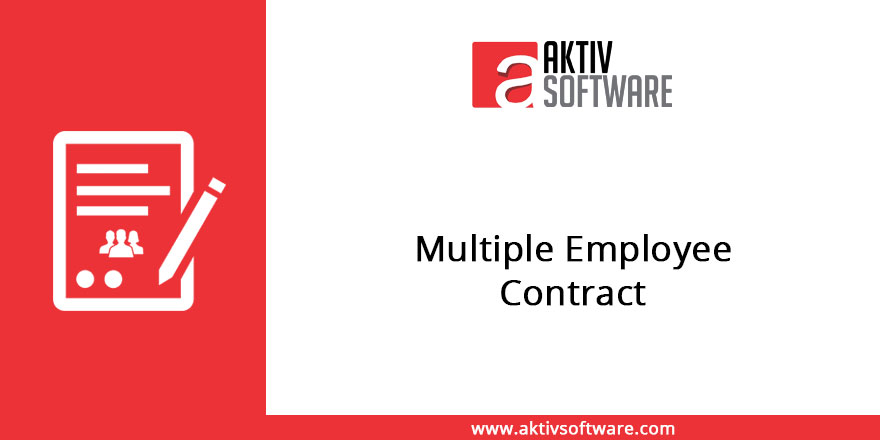
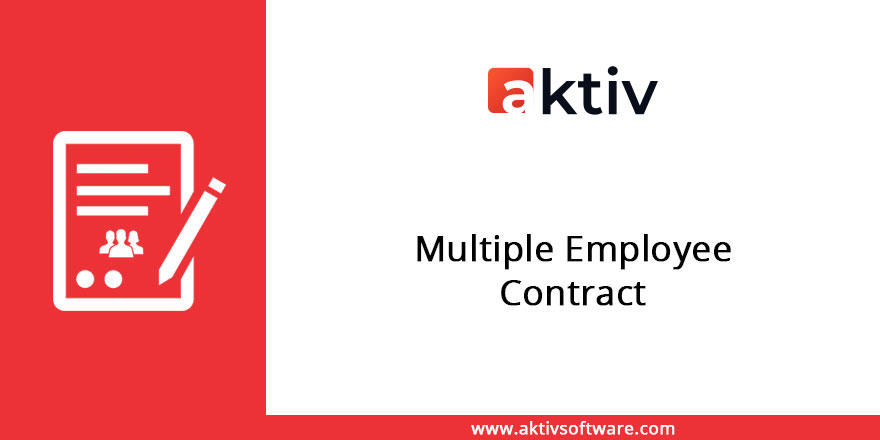
[ADD] change image in 9.0

Changed region(s): [[0.5216, 0.0886, 0.767, 0.2659]]

diff --git a/multi_employee_contract/static/description/index.html b/multi_employee_contract/static/description/index.html
@@ -103,7 +103,7 @@
     <div class="oe_row oe_spaced">
         <h2 class="oe_slogan">
             <a href="http://aktivsoftware.com/" target="new">
-                <img src="http://aktivsoftware.com/wp-content/uploads/2018/01/logo-1.png"/>
+                <img src="aktiv-logo.png"/>
             </a>
             <br/>
             <a href="mailto:sales@aktivsoftware.com" style="color: #000000 !important;">
